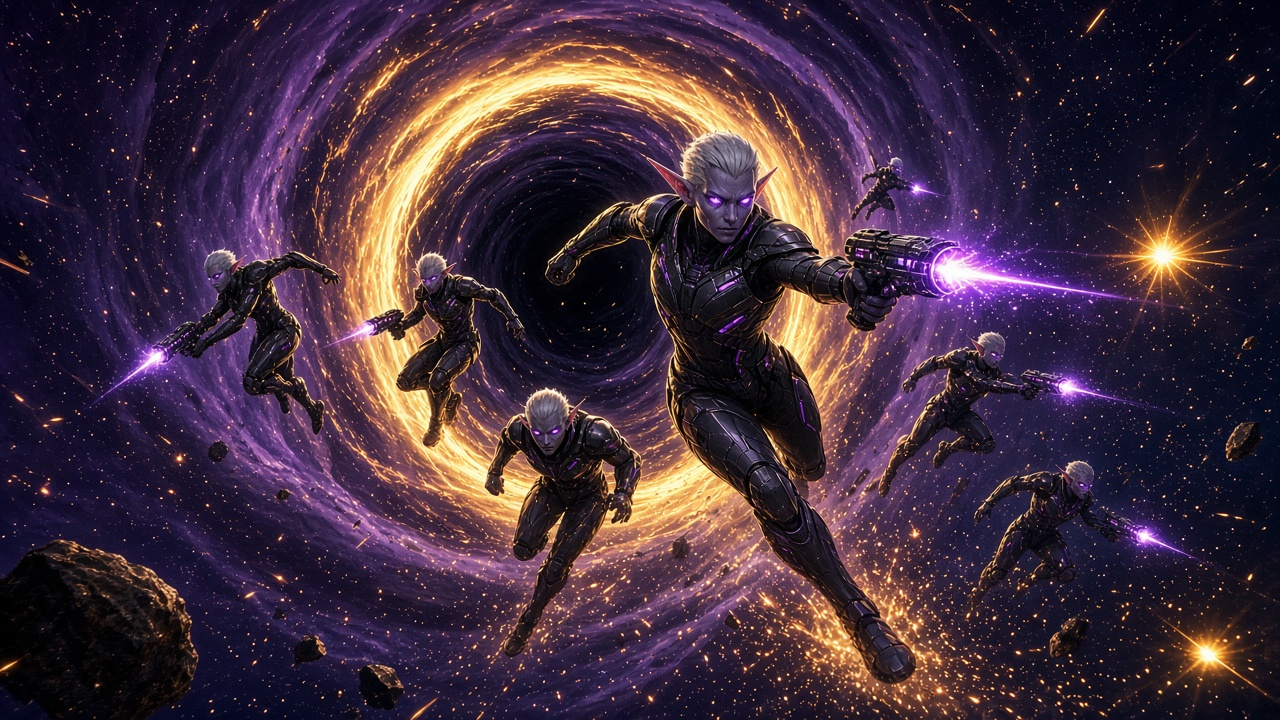
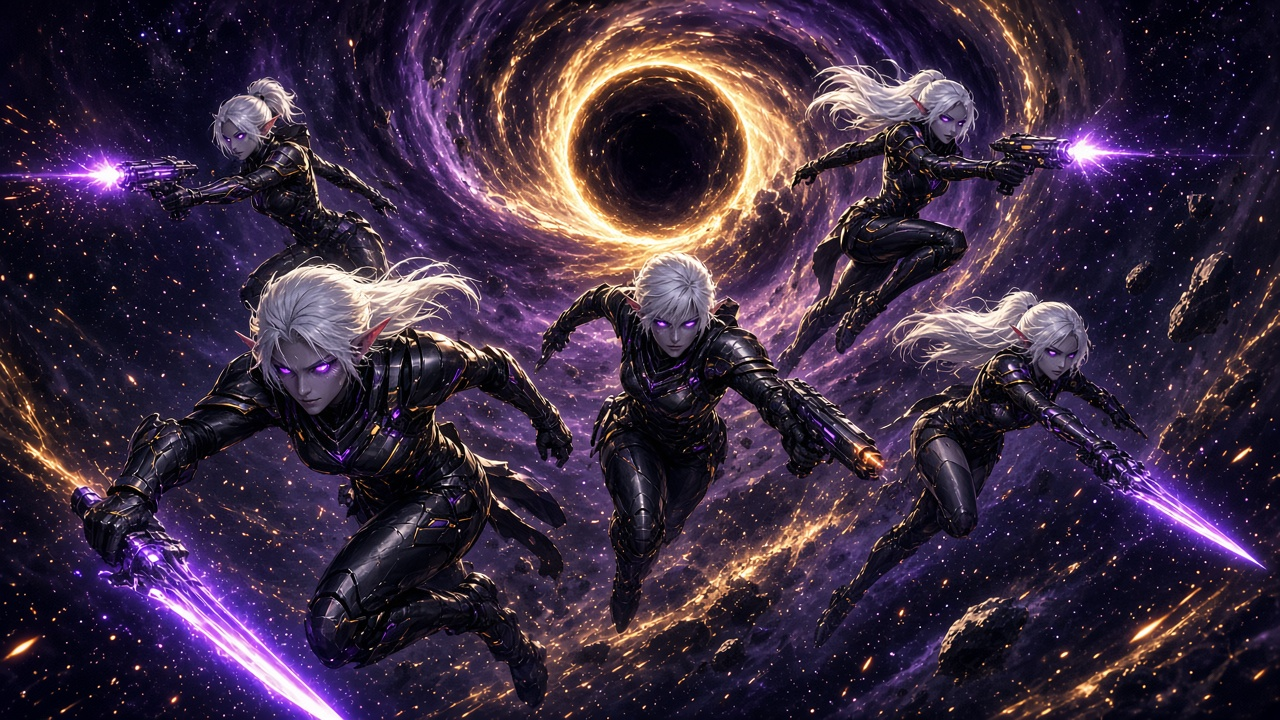
Add Nova, mixed Tyrenies

diff --git a/index.html b/index.html
@@ -48,7 +48,8 @@ figure{margin:16px 0 0}figure img{width:100%;border-radius:14px;border:1px solid
 <section class="card"><div class="icon">⭐</div><h2>The Hero: Orion</h2>
 <p>Orion has a starry origin. A celestial being from Picaeopus gave him his first power. He starts out small, but every battle and every bit of training makes him stronger.</p></section>
 <section class="card"><div class="icon">👑</div><h2>Princess Nova</h2>
-<p>Nova comes from Picaeopus too, and she's fighting to save her kingdom, Atalandia. She's a warrior and a teacher. She trains Orion and helps him learn to control his powers.</p></section>
+<p>Nova comes from Picaeopus too, and she's fighting to save her kingdom, Atalandia. She's a warrior and a teacher. She trains Orion and helps him learn to control his powers.</p>
+<figure><img src="images/nova.jpg" alt="Princess Nova leaping into battle with a glowing star spear"><figcaption>Princess Nova, defender of Atalandia</figcaption></figure></section>
 <section class="card wide"><div class="icon">🐉</div><h2>Train Your Dragon</h2>
 <p>Orion trains his dragon to use the four elemental powers. Each one you master unlocks new moves, new places to explore, and new ways to fight.</p>
 <div class="elements"><div class="el fire">🔥 Fire</div><div class="el water">💧 Water</div><div class="el earth">🪨 Earth</div><div class="el air">🌪 Air</div></div></section>
